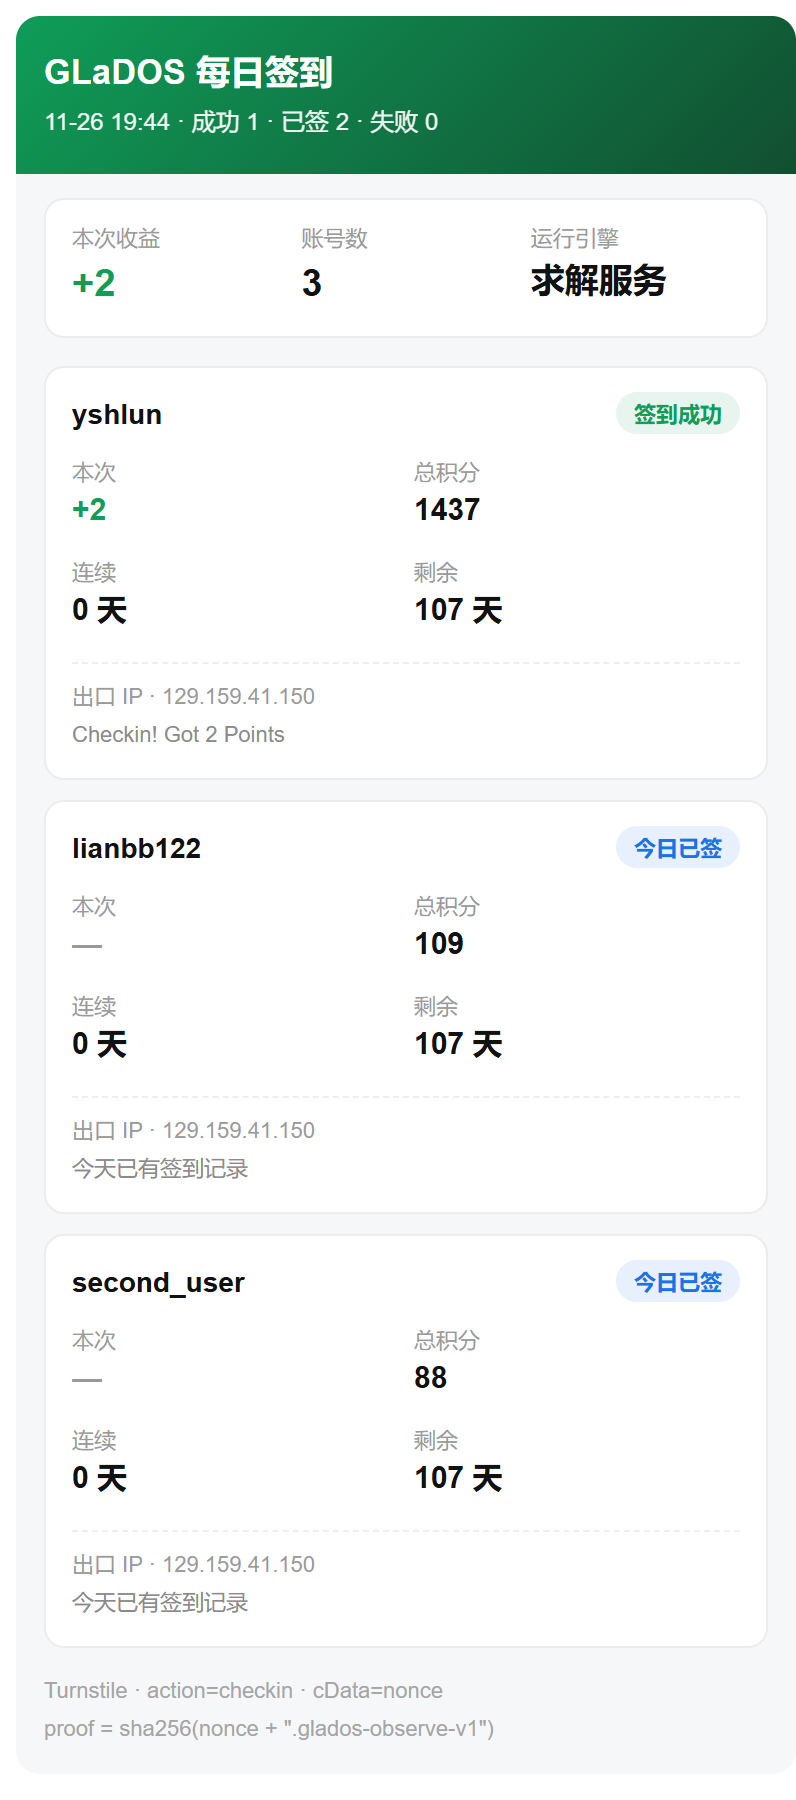
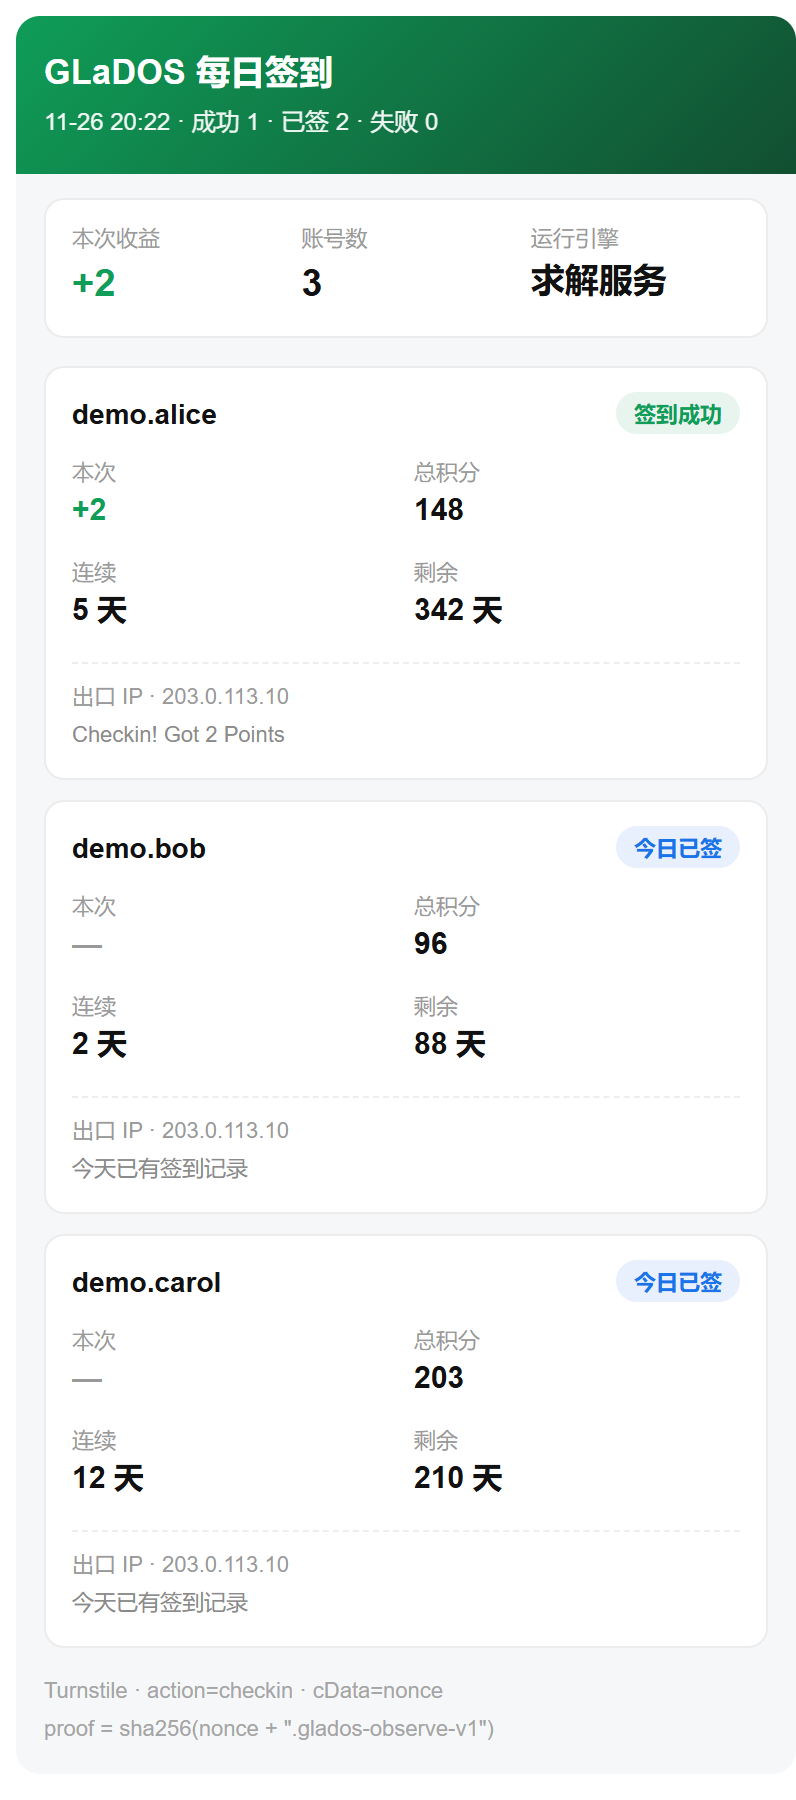
feat: 多接收方推送 + 字段修正 + 新手教程
推送：
- PUSHPLUS_TOKEN 支持多个 token（& / , / ; / 空白分隔），自动去重后
  逐个推送同一份内容；单个 token 失效只影响它自己
- 日志按 [i/n] 标出第几个接收方，最后汇总成功数

字段修正（此前一直显示 —）：
- 剩余天数真实字段是 status.data.leftDays，不是 daysLeft
- 连续天数是 points.streak，不在 checkin 返回里
- 新增 to_number() 处理 '342.0000000000000000' 这类字符串

文档：
- README 新增「三分钟上手」7 步教程 + 常见卡住对照表，面向零基础
- 预览图换成虚构账号 demo.alice/bob/carol 与文档专用 IP 203.0.113.10，
  不再暴露真实邮箱前缀

diff --git a/checkin.py b/checkin.py
@@ -72,6 +72,17 @@ class AccountResult:
     detail: Dict[str, Any] = field(default_factory=dict)
 
 
+def to_number(val, cast=None):
+    """把 '342.0000000000000000' 这类字符串安全转成数字，失败返回 None。"""
+    if val in (None, "", "-"):
+        return None
+    try:
+        f = float(val)
+    except (TypeError, ValueError):
+        return None
+    return int(f) if cast is int else f
+
+
 def human_gb(n: float) -> str:
     return f"{n / 1024 ** 3:.2f} GB"
 
@@ -321,7 +332,7 @@ def run_account(index: int, cookie_raw: str, headless: bool, log) -> AccountResu
     data = st.get("data") or {}
     if data:
         result.email = str(data.get("email") or data.get("name") or "")
-        result.days_left = data.get("daysLeft") or data.get("days_left") or data.get("remaining_days")
+        result.days_left = to_number(data.get("leftDays") or data.get("daysLeft") or data.get("days_left") or data.get("remaining_days"), int)
         vip = data.get("vip")
         if vip is not None:
             result.plan = str(vip)
@@ -335,8 +346,10 @@ def run_account(index: int, cookie_raw: str, headless: bool, log) -> AccountResu
             result.points = float(pts["points"])
         except (TypeError, ValueError):
             pass
-    if body.get("streak") is not None:
-        result.streak = body["streak"]
+    # 连续天数在 points.streak（不是 checkin 的返回里）
+    result.streak = to_number(pts.get("streak"), int)
+    if result.streak is None and body.get("streak") is not None:
+        result.streak = to_number(body["streak"], int)
 
     history = pts.get("history") or []
     if history and not result.repeated:
@@ -473,6 +486,18 @@ def render_push_html(results: List[AccountResult], engine: str) -> str:
 </div>"""
 
 
+def split_tokens(raw: str) -> List[str]:
+    '多 token 支持：用 & , ; 空白 任一分割，去重保序。'
+    import re
+    seen, out = set(), []
+    for tok in re.split(r'[&,;\s]+', raw or ''):
+        tok = tok.strip()
+        if tok and tok not in seen:
+            seen.add(tok)
+            out.append(tok)
+    return out
+
+
 def push_pushplus(token: str, results: List[AccountResult], engine: str, log) -> None:
     import requests
 
@@ -489,20 +514,34 @@ def push_pushplus(token: str, results: List[AccountResult], engine: str, log) ->
         gain = f"+{total}分" if total else f"{fresh} 个账号已签"
         title = f"GLaDOS 签到成功 · {gain}"
     payload = {
-        "token": token,
         "title": title,
         "content": render_push_html(results, engine),
         "template": "html",
     }
-    try:
-        resp = requests.post("https://www.pushplus.plus/send", json=payload, timeout=30)
-        data = resp.json()
-        if data.get("code") == 200:
-            log(f"PushPlus 推送成功: {title}")
-        else:
-            log(f"PushPlus 推送失败: {data}")
-    except Exception as exc:
-        log(f"PushPlus 推送异常: {exc}")
+    tokens = split_tokens(token)
+    if not tokens:
+        log("PushPlus token 为空，跳过推送")
+        return
+
+    content = payload["content"]
+    ok = 0
+    for i, tok in enumerate(tokens, 1):
+        try:
+            resp = requests.post("https://www.pushplus.plus/send",
+                                 json={"token": tok, "title": title,
+                                       "content": content, "template": "html"},
+                                 timeout=30)
+            data = resp.json()
+            if data.get("code") == 200:
+                ok += 1
+                log(f"PushPlus 推送成功 [{i}/{len(tokens)}]: {title}")
+            else:
+                log(f"PushPlus 推送失败 [{i}/{len(tokens)}]: {data}")
+        except Exception as exc:
+            log(f"PushPlus 推送异常 [{i}/{len(tokens)}]: {exc}")
+
+    if ok != len(tokens):
+        log(f"PushPlus 共 {len(tokens)} 个接收方，成功 {ok} 个")
 
 
 def result_from_api_dict(index: int, info: Dict[str, Any]) -> AccountResult:
@@ -538,7 +577,7 @@ def result_from_api_dict(index: int, info: Dict[str, Any]) -> AccountResult:
     data = st.get("data") or {}
     if data:
         r.email = str(data.get("email") or data.get("name") or "")
-        r.days_left = data.get("daysLeft") or data.get("days_left") or data.get("remaining_days")
+        r.days_left = to_number(data.get("leftDays") or data.get("daysLeft") or data.get("days_left") or data.get("remaining_days"), int)
         vip = data.get("vip")
         if vip is not None:
             r.plan = str(vip)
@@ -549,6 +588,8 @@ def result_from_api_dict(index: int, info: Dict[str, Any]) -> AccountResult:
             r.points = float(pts["points"])
         except (TypeError, ValueError):
             pass
+    # 连续天数在 points.streak
+    r.streak = to_number(pts.get("streak"), int)
 
     history = pts.get("history") or []
     if history and not r.repeated:

diff --git a/README.md b/README.md
@@ -1,12 +1,122 @@
 # Glados-Railgun-checkin
 
-GLaDOS（Railgun）每日自动签到 + PushPlus 美化推送。
+GLaDOS（Railgun）每日自动签到 + PushPlus 手机美化推送。**配好之后不用管，每天自动跑。**
 
 站点在 2026 年给签到接入了 **Cloudflare Turnstile**，原来的纯 `requests` 脚本会被判 `code=5 turnstile`。
-本仓库改用 **Playwright 驱动真实 Chromium** 现场通过 Turnstile，再按站点前端完全一致的算法提交签到。
+本仓库的做法是：用 **Peak Solutions 求解服务**拿到 Turnstile token，再按站点前端完全一致的算法提交签到。
+不需要浏览器、不需要自己的电脑开机，GitHub 免费额度就够。
+
+![推送效果](imgs/preview.png)
+
+> 上图账号与 IP 均为虚构示例。
 
 ---
 
+## 0. 三分钟上手（照这个顺序做就行）
+
+如果你是第一次用，**只看这一节就够了**。全程不需要装任何软件。
+
+### 第 1 步：Fork 这个仓库
+
+点右上角 **Fork** → 保持默认 → **Create fork**。
+（你自己的仓库才能存自己的 Cookie 和密钥。）
+
+### 第 2 步：注册 Peak Solutions，拿一个 key
+
+1. 打开 <https://peak.fo>，用邮箱注册（**新账号送 1000 次免费求解**，够用很久）；
+2. 登录后进 **Dashboard → API Keys**，创建一个 key；
+3. 复制那串以 `pk_` 开头的字符串，先存到记事本里。
+
+> 为什么用它：签到时站点要验证 Cloudflare Turnstile，而这个验证必须由「像真人」的客户端完成。
+> Peak 就是干这个的，几秒返回 token，不需要你本机跑浏览器。
+> 单次求解约 $0.001，1000 次免费额度按「每账号每天 1 次」算够用很久（脚本会先查今天是否已签，已签不花钱）。
+
+### 第 3 步：取 Cookie（最关键的一步，慢一点没关系）
+
+1. 电脑上用 **Chrome** 打开 <https://glados.space/console> 并登录你的账号；
+2. 按 **F12** 打开开发者工具 → 切到 **Network（网络）** 标签；
+3. 按 **F5** 刷新页面；
+4. 在请求列表里点任意一条 `glados.space` 开头的请求；
+5. 右侧找到 **Request Headers（请求标头）** → 找 **Cookie** 那一行；
+6. 把这一行的**完整内容**复制出来。长这样：
+
+```
+gld:sess=AAAA...; gld:sess.sig=BBBB...; gld:accts=CCCC...; gld:accts.sig=DDDD...
+```
+
+> 一定要把 `gld:sess`、`gld:sess.sig`、`gld:accts`、`gld:accts.sig` **四段全带上**，少一段就会登录失败。
+> 复制的时候不要带 `Cookie:` 这个前缀，只要冒号后面的值。
+
+**多个账号怎么弄**：每个账号分别按上面步骤取一份，然后用 `&` 拼成一行：
+
+```
+gld:sess=账号1...; gld:sess.sig=账号1...&gld:sess=账号2...; gld:sess.sig=账号2...&gld:sess=账号3...; ...
+```
+
+推送里会用**邮箱 `@` 前面的部分**做标题（比如 `alice`、`bob`），一眼就能对上是谁。
+
+### 第 4 步：注册 PushPlus，拿推送 token
+
+1. 打开 <https://www.pushplus.plus>，微信扫码登录；
+2. 首页能看到你的一串 **token**（32 位），复制下来；
+3. 关注它的微信公众号，这样推送会直接发到微信。
+
+**想同时推给好几个人**：在里面建一个「群组」把大家都加进去，用**群组 token** 即可；
+或者直接把多串 token 用 `&` 拼起来填进 secret（脚本会逐个推送同一份内容）。
+
+### 第 5 步：把上面拿到的值填进 GitHub Secrets
+
+进你自己的仓库 → **Settings（设置）** → 左侧 **Secrets and variables** → **Actions**
+→ 右上 **New repository secret**，依次添加下面三条：
+
+| Name（名字，必须一字不差） | Secret（值） |
+|---|---|
+| `GLADOS_COOKIES` | 第 3 步复制的 Cookie（多账号用 `&` 连接） |
+| `PUSHPLUS_TOKEN` | 第 4 步的 PushPlus token（多个用 `&` 连接） |
+| `TURNSTILE_PROVIDER` | 固定填 `peak` |
+| `TURNSTILE_API_KEY` | 第 2 步的 `pk_...` key |
+
+> 注意：**Name 是区分大小写的**，必须和上表完全一致。值直接粘贴，不要加引号。
+
+### 第 6 步：手动跑一次，确认成功
+
+1. 点仓库上方 **Actions** 标签；
+2. 左侧选 **auto check**；
+3. 右边点 **Run workflow** → **Run workflow**；
+4. 等约 1 分钟，点进这次运行，看日志里出现：
+
+```
+共 3 个账号 · 引擎=api(peak)
+返回 code=0 reason=None repeated=False
+汇总: 成功 1 · 已签 2 · 失败 0 · 本次 +2 分
+PushPlus 推送成功 [1/1]: GLaDOS 签到成功 · +2分
+```
+
+看到 `code=0`（新签到）或 `code=1`（今天已签过，正常）就说明通了，同时微信会收到推送。
+
+### 第 7 步：什么都不用做了
+
+默认每天自动跑两次（北京时间 **09:18** 和 **12:18**）。
+第二次是兜底：如果第一次因为网络抖动失败，第二次还能补上；已经签过的账号不会重复加分，
+而且**不会重复消耗求解额度**（脚本先查签到记录，已签就跳过）。
+
+---
+
+## 0.1 常见卡住的点（新手必看）
+
+| 现象 | 原因与解法 |
+|---|---|
+| 日志 `code=4 reason=device-mismatch` | UA 和登录设备不一致。脚本会**自动**按 `loginDevice` 换 UA 重试，看到这条后紧跟着 `code=0/1` 就属于正常过程 |
+| 日志 `code=5 reason=turnstile` | 求解服务返回的 token 被拒。**先确认 `action=checkin` 和 `cdata=nonce` 都传了**（本仓库已内置）；仍失败再换 provider 或换网络 |
+| 日志 `code=1 repeated=True`，`本次 +0 分` | 今天已经签过了，**正常**，不是失败 |
+| `缺少 GLADOS_COOKIES` | 第 5 步的 secret 名字拼错了，或值留空 |
+| 推送标题是 `GLaDOS 今日已签` | 三个账号今天都签过了，正常 |
+| 连续 / 剩余 显示 `—` | 站点没返回对应字段；一般刷新一次就好，不影响签到 |
+| 微信收不到推送 | PushPlus 里没关注公众号，或 token 填错；去 PushPlus 后台看「发送记录」 |
+| 想改执行时间 | 改 `.github/workflows/gladosCheck.yml` 里的 `cron: '18 1,4 * * *'`（**UTC 时间**，北京时间 = UTC+8） |
+| Actions 到点没跑 | GitHub 的定时任务高峰期会延迟几分钟到半小时，属正常；可以点 Run workflow 手动补一次 |
+
+---
 ## 1. 签到链路（逆向自站点前端）
 
 ```
@@ -115,7 +225,7 @@ code=4 reason=device-mismatch  loginDevice=Android  currentDevice=Windows
    | Secret | 必填 | 说明 |
    |---|---|---|
    | `GLADOS_COOKIES` | ✅ | 一个或多个账号的 Cookie，多账号用 `&` 连接 |
-   | `PUSHPLUS_TOKEN` | 建议 | PushPlus token，不填则只打日志 |
+   | `PUSHPLUS_TOKEN` | 建议 | PushPlus token。**多接收方用 `&` 连接**（如 `tokA&tokB`），会逐个推送同一份内容；不填则只打日志 |
    | `TURNSTILE_PROVIDER` | 推荐 | `peak` / `capsolver` / `yescaptcha` / `2captcha` |
    | `TURNSTILE_API_KEY` | 推荐 | 求解服务的 API Key |
 
@@ -176,7 +286,7 @@ gld:sess=AAA; gld:sess.sig=BBB; gld:accts=CCC; gld:accts.sig=DDD&gld:sess=EEE; g
 | 变量 | 默认 | 说明 |
 |---|---|---|
 | `GLADOS_COOKIES` | – | 必填，cookie 串，多账号用 `&` 分隔 |
-| `PUSHPLUS_TOKEN` | – | PushPlus token |
+| `PUSHPLUS_TOKEN` | – | PushPlus token，多接收方用 `&` / `,` / `;` / 空白分隔，自动去重，逐个推送相同内容 |
 | `TURNSTILE_PROVIDER` | – | 求解服务：`peak` / `capsolver` / `yescaptcha` / `2captcha`（配置后走 api 引擎） |
 | `TURNSTILE_API_KEY` | – | 求解服务 API Key |
 | `GLADOS_PROXY` | – | 出口代理，`http://user:pass@host:port` 或 `socks5://host:port`。**IP 被限流时填这个最有效** |
@@ -217,6 +327,13 @@ xvfb-run -a --server-args="-screen 0 1440x900x24" python checkin.py
 四宫格指标、状态徽标、出口 IP 与原始返回信息分层展示，窄屏不会挤成一条缝。
 
 <img src="imgs/preview.png" width="330" alt="推送效果">
+
+- 卡片标题 = 该账号邮箱 @ 之前的部分（下图中的 demo.alice 等均为**虚构示例**）；
+- 状态徽标三种：签到成功（绿）/ 今日已签（蓝）/ 失败时为红色；
+- 本次 / 总积分 / 连续天数 / 剩余天数 四项指标；
+- 底部是出口 IP 与站点原始返回信息，便于排查。
+
+> 截图中的账号名、积分、IP（203.0.113.10 是文档专用保留网段）全部为假数据。
 
 ---
 
@@ -283,6 +400,14 @@ cookie 失效（被登出）。重新登录拿新 cookie。
   - 查询失败（网络/接口异常）时返回 `None` 并继续完整流程，
     不会因为查不到就误判成「已签」而漏签；
   - 每天两次 cron 的意义由此变为纯冗余：第一次签到，第二次只是兜底。
+- **2026-11-26（五）**：多接收方推送 + 字段修正 + 新手文档。
+  - `PUSHPLUS_TOKEN` 支持填多个 token（`&` / `,` / `;` / 空白分隔），
+    自动去重后逐个推送**同一份内容**；单个 token 失效只影响它自己，其余照常送达；
+  - 修正两处字段名：剩余天数实际在 `status.data.leftDays`（不是 `daysLeft`）、
+    连续天数在 `points.streak`（不是签到返回里），此前这两项一直显示 `—`；
+  - 仓库预览图改用虚构账号（`demo.alice` / `demo.bob` / `demo.carol`）
+    与文档专用 IP `203.0.113.10`，不再暴露真实邮箱前缀；
+  - README 新增「三分钟上手」7 步教程和「常见卡住的点」对照表，面向前端零基础用户。
 
 ## 免责声明
 
